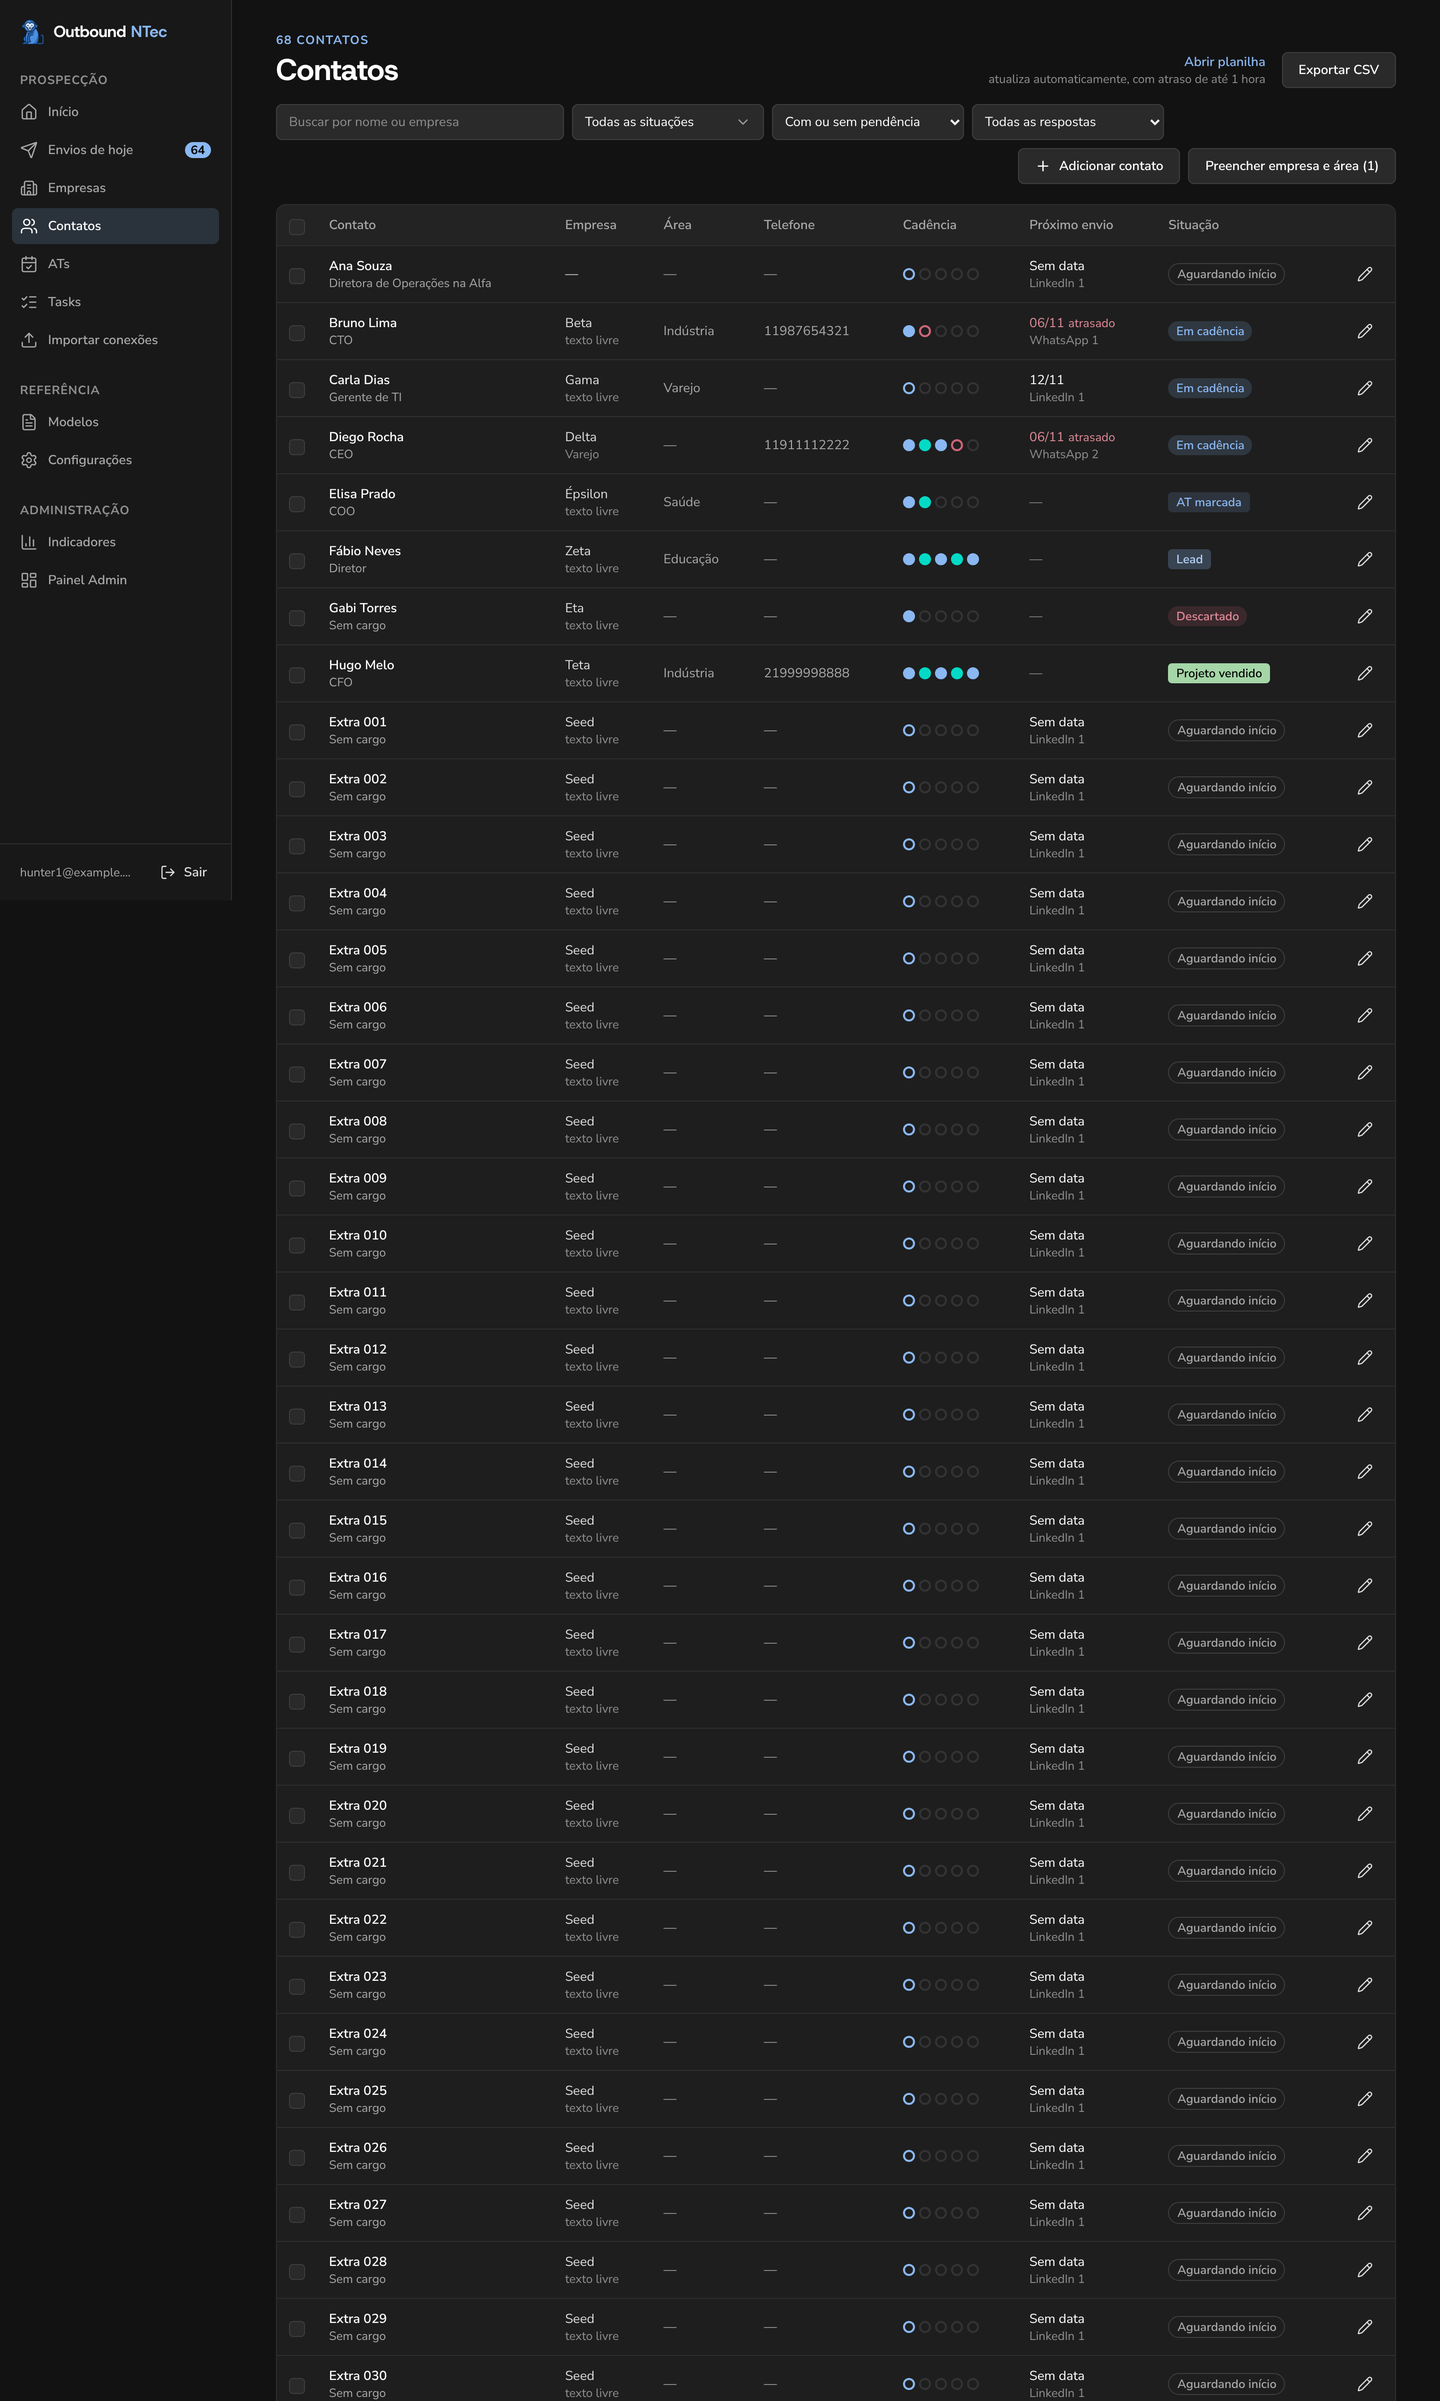
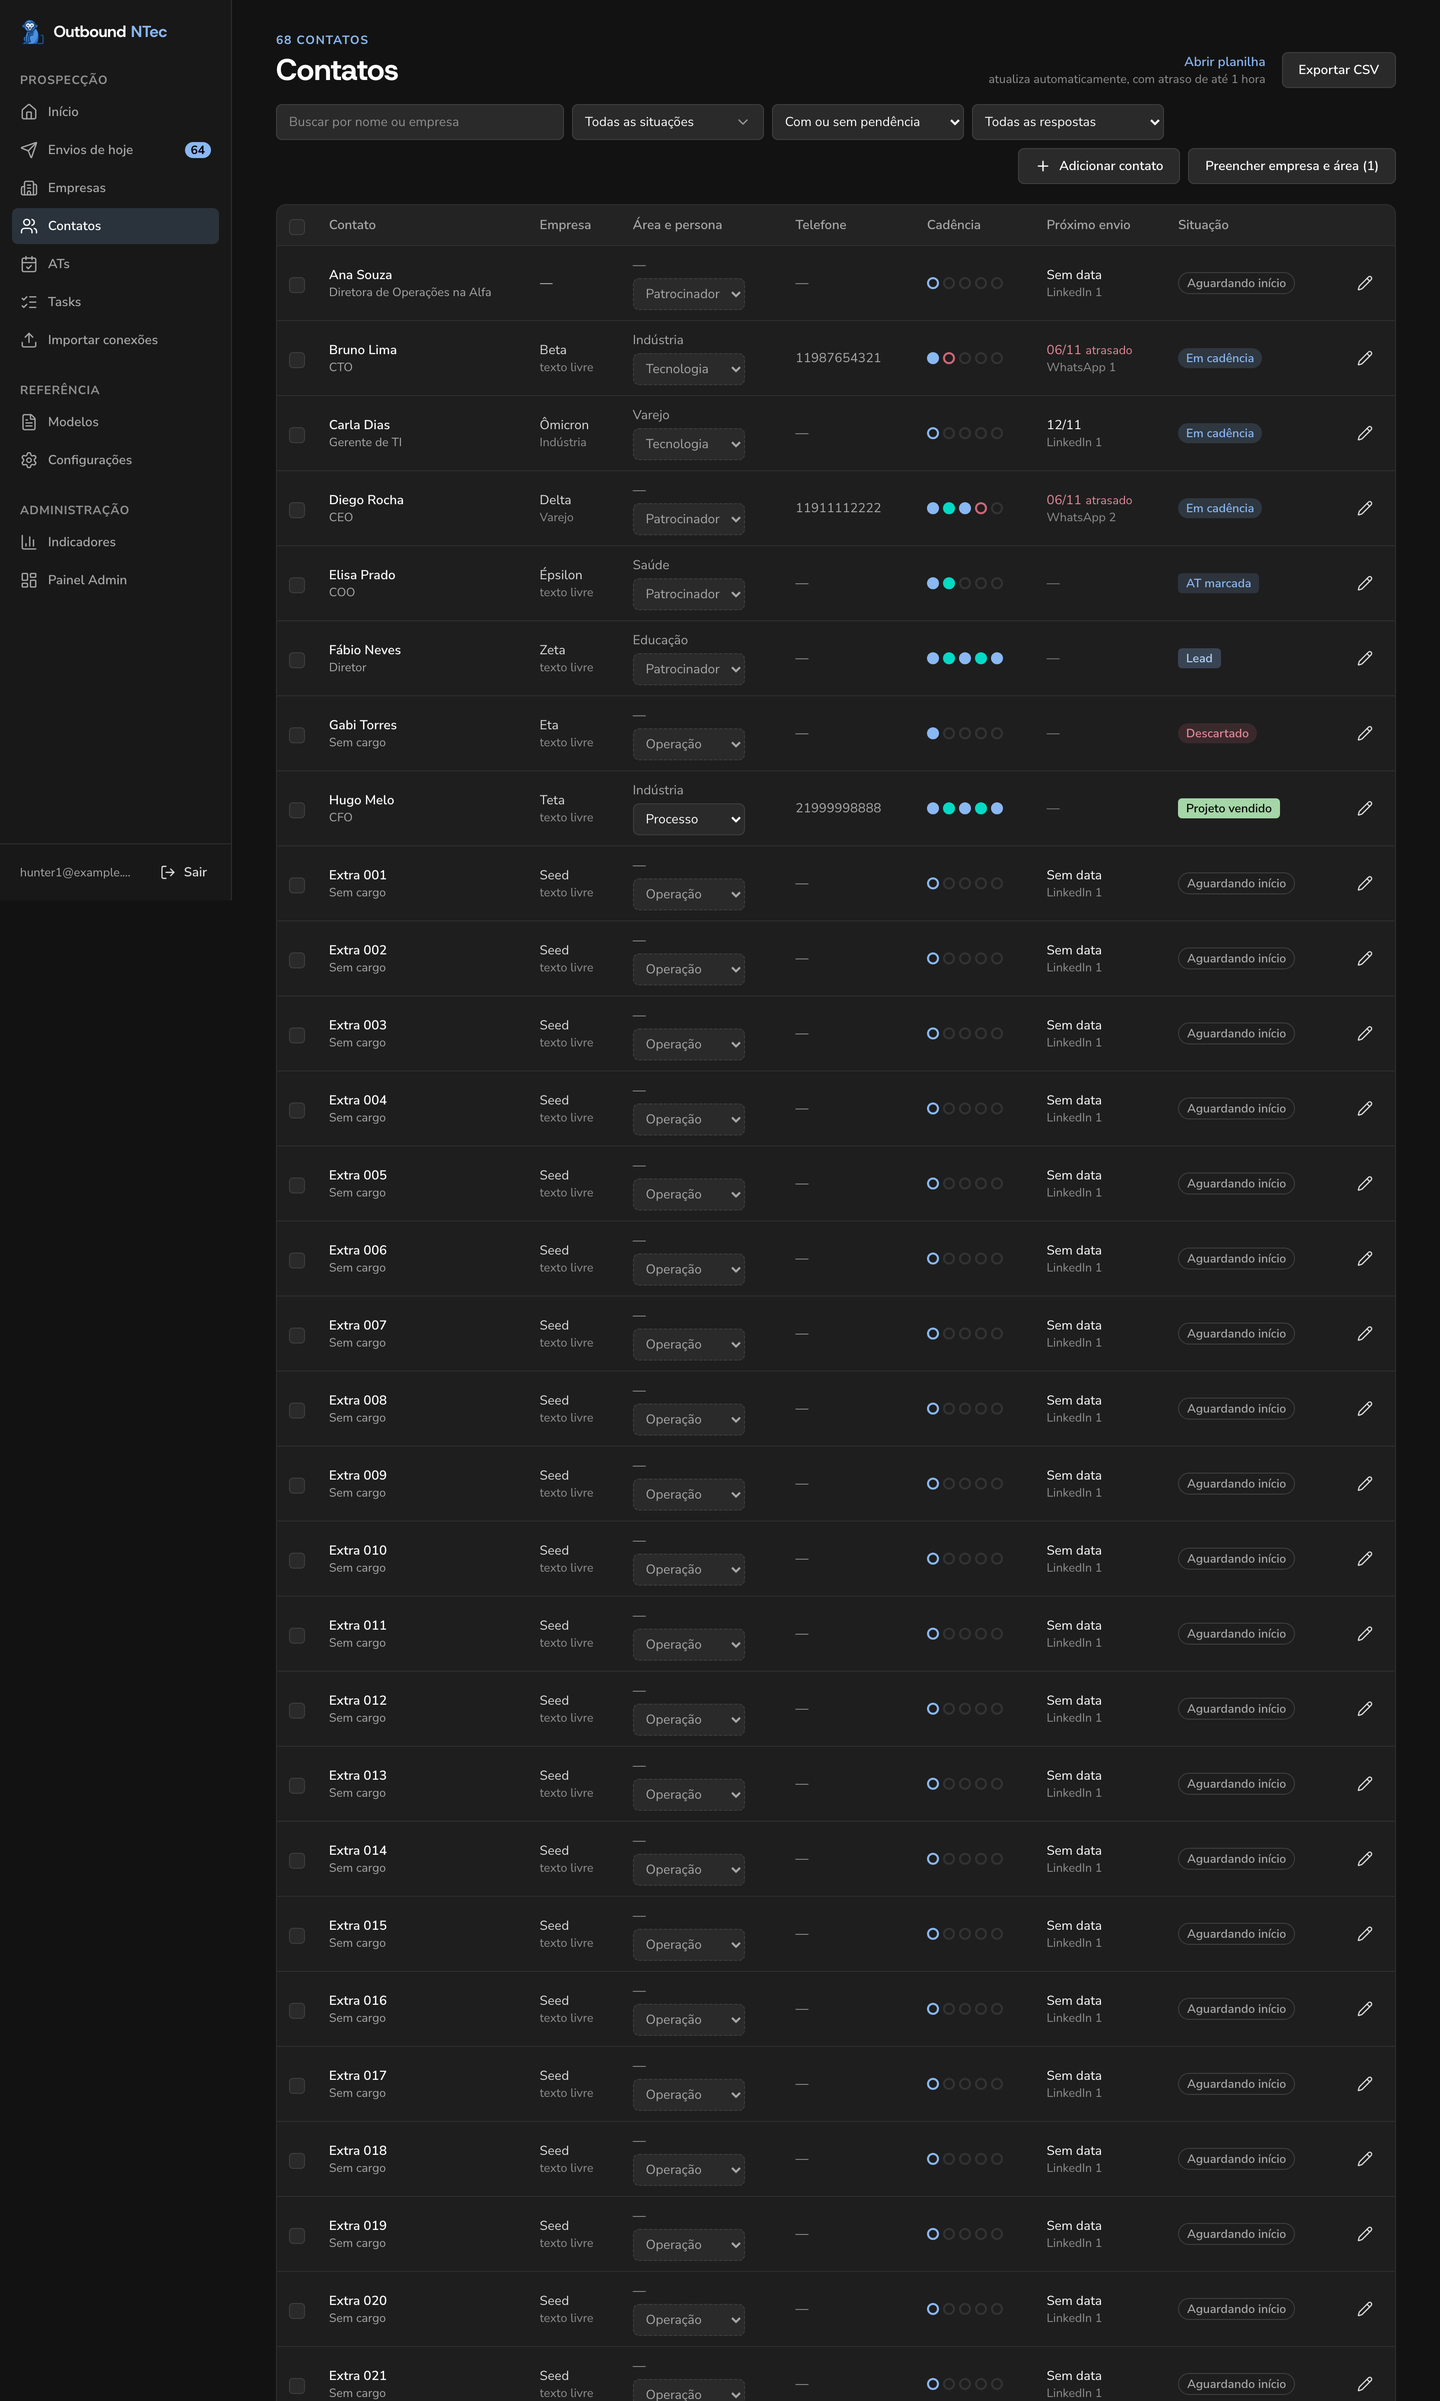
feat(contatos): mostra e troca a persona do contato
A tabela de Contatos mostra a persona embaixo da área, na coluna "Área e
persona", com um seletor compacto: a sugerida pelo cargo aparece em borda
tracejada e escolher qualquer persona grava e confirma. A edição do
contato ganha o campo Persona. A tabela continua sem rolagem em 1280 px.

diff --git a/e2e/contatos.spec.ts b/e2e/contatos.spec.ts
@@ -218,4 +218,69 @@ test.describe("Contatos", () => {
       resposta_etapa: 0,
     });
   });
+
+  test("a linha mostra a persona sugerida pelo cargo, com o motivo no title", async ({ page }) => {
+    await page.goto("/contatos");
+    const diego = page.locator("main tbody tr", { hasText: "Diego Rocha" });
+    const persona = diego.getByRole("combobox", { name: "Persona (sugerida)" });
+    await expect(persona.locator("option:checked")).toHaveText("Patrocinador Executivo");
+    await expect(persona).toHaveAttribute(
+      "title",
+      "Sugerida pelo cargo: Patrocinador Executivo. Escolha para confirmar.",
+    );
+    await expect(persona).toHaveClass(/border-dashed/);
+    await expect(persona.locator("option", { hasText: "Owner d" })).toHaveCount(0);
+    // A sugestão não se repete na lista aberta: a opção "" fica escondida.
+    await expect(persona.locator('option[value=""]')).toHaveAttribute("hidden", "");
+  });
+
+  test("trocar a persona na linha grava a escolhida", async ({ page }) => {
+    await page.goto("/contatos");
+    const diego = page.locator("main tbody tr", { hasText: "Diego Rocha" });
+    await diego
+      .getByRole("combobox", { name: "Persona (sugerida)" })
+      .selectOption({ label: "Tecnologia" });
+    await expect.poll(async () => (await mutations()).length).toBe(1);
+    expect(JSON.parse((await mutations())[0]!.body)).toEqual({ persona: "owner_tecnologia" });
+    expect((await mutations())[0]!.query).toMatch(/id=eq\./);
+  });
+
+  test("escolher a persona sugerida na linha dispara a gravação", async ({ page }) => {
+    await page.goto("/contatos");
+    const diego = page.locator("main tbody tr", { hasText: "Diego Rocha" });
+    // A opção "sugerida" tem valor vazio e a persona real é outra opção, com o mesmo rótulo.
+    await diego
+      .getByRole("combobox", { name: "Persona (sugerida)" })
+      .selectOption("patrocinador_executivo");
+    await expect.poll(async () => (await mutations()).length).toBe(1);
+    expect(JSON.parse((await mutations())[0]!.body)).toEqual({
+      persona: "patrocinador_executivo",
+    });
+  });
+
+  test("contato com persona gravada não aparece como sugerido", async ({ page }) => {
+    await page.goto("/contatos");
+    const hugo = page.locator("main tbody tr", { hasText: "Hugo Melo" });
+    const persona = hugo.getByRole("combobox", { name: "Persona", exact: true });
+    await expect(persona).toHaveValue("owner_processo");
+    await expect(persona.locator("option:checked")).toHaveText("Processo");
+    await expect(persona).toHaveAttribute("title", "Owner do Processo");
+    await expect(persona).not.toHaveClass(/border-dashed/);
+    await expect(hugo.getByRole("combobox", { name: "Persona (sugerida)" })).toHaveCount(0);
+  });
+
+  test("a edição do contato mostra o selo 'sugerida' e grava a persona", async ({ page }) => {
+    await page.goto("/contatos");
+    await page
+      .locator("main tbody tr", { hasText: "Diego Rocha" })
+      .getByRole("button", { name: /^Editar / })
+      .click();
+    const dialog = page.getByRole("dialog");
+    await expect(dialog.getByText("sugerida", { exact: true })).toBeVisible();
+    const persona = dialog.getByRole("combobox", { name: "Persona", exact: true });
+    await expect(persona.locator("option:checked")).toHaveText("Sugerida: Patrocinador Executivo");
+    await persona.selectOption({ label: "Owner da Operação" });
+    await expect.poll(async () => (await mutations()).length).toBe(1);
+    expect(JSON.parse((await mutations())[0]!.body)).toEqual({ persona: "owner_operacao" });
+  });
 });

diff --git a/src/components/PersonaSelect.tsx b/src/components/PersonaSelect.tsx
@@ -5,14 +5,17 @@ import { cn } from "@/lib/utils";
 /**
  * Seletor da persona do contato. Com `value` nulo a persona ainda é a sugerida pelo cargo: a
  * primeira opção mostra "Sugerida: <rótulo>" e um selo avisa. Escolher qualquer persona, inclusive
- * a sugerida, grava e confirma (`onChange`). `compact` serve à tabela de Contatos (`h-8`).
+ * a sugerida, grava e confirma (`onChange`). `compact` serve à tabela de Contatos (`h-8`); `noBadge`
+ * troca o selo pela borda tracejada, para caber em 1280 px.
  */
 export function PersonaSelect({
   value,
   suggested,
   onChange,
   compact = false,
+  noBadge = false,
   className,
+  wrapperClassName,
 }: {
   /** Persona gravada no contato (`null` = ainda sugerida). */
   value: Persona | null;
@@ -20,27 +23,51 @@ export function PersonaSelect({
   suggested: Persona;
   onChange: (persona: Persona) => void;
   compact?: boolean;
+  /** Tabela de Contatos: sem selo nem prefixo; a sugestão vai em borda tracejada, aria-label e title. */
+  noBadge?: boolean;
   className?: string;
+  /** Classes do contêiner (ex.: `flex w-full` para o select ocupar a largura do campo). */
+  wrapperClassName?: string;
 }) {
+  // Em Contatos (`noBadge`) os rótulos perdem o "Owner do/da " para caber na coluna.
+  const short = (label: string) => (noBadge ? label.replace(/^Owner d[oa] /, "") : label);
+  const hint = noBadge && !value;
   return (
-    <span className="inline-flex items-center gap-1.5">
+    <span className={cn("inline-flex items-center gap-1.5", wrapperClassName)}>
       <NativeSelect
-        aria-label="Persona"
-        className={cn(compact ? "h-8" : "h-9", className)}
+        aria-label={hint ? "Persona (sugerida)" : "Persona"}
+        title={
+          hint
+            ? `Sugerida pelo cargo: ${PERSONA_LABEL[suggested]}. Escolha para confirmar.`
+            : noBadge && value
+              ? PERSONA_LABEL[value]
+              : undefined
+        }
+        className={cn(
+          compact ? "h-8" : "h-9",
+          hint && "border-dashed text-muted-foreground",
+          className,
+        )}
         value={value ?? ""}
         onChange={(e) => {
           // A opção "Sugerida" (valor "") já vem selecionada, então o evento só traz personas reais.
           onChange(e.target.value as Persona);
         }}
       >
-        {!value && <option value="">Sugerida: {PERSONA_LABEL[suggested]}</option>}
+        {!value && (
+          // Em Contatos o rótulo da sugestão repete o da opção real: escondida da lista aberta,
+          // ela só aparece no select fechado.
+          <option value="" hidden={noBadge}>
+            {noBadge ? short(PERSONA_LABEL[suggested]) : `Sugerida: ${PERSONA_LABEL[suggested]}`}
+          </option>
+        )}
         {PERSONAS.map((p) => (
           <option key={p.key} value={p.key}>
-            {p.label}
+            {short(p.label)}
           </option>
         ))}
       </NativeSelect>
-      {!value && (
+      {!value && !noBadge && (
         <span className="rounded-sm bg-warning-soft px-2 py-0.5 text-caption font-semibold text-warning-text">
           sugerida
         </span>

diff --git a/src/components/contatos/ContactRow.tsx b/src/components/contatos/ContactRow.tsx
@@ -1,11 +1,13 @@
 import { Pencil } from "lucide-react";
 import { FunnelBadge } from "@/components/Funnel";
+import { PersonaSelect } from "@/components/PersonaSelect";
 import { StatusBadge } from "@/components/StatusBadge";
 import { Button } from "@/components/ui/button";
 import { Checkbox } from "@/components/ui/checkbox";
 import { TableCell, TableRow } from "@/components/ui/table";
 import { STEPS, computedStatus, formatBR, funnelIndex, type Contact } from "@/lib/cadencia";
 import type { NextSend, StepMark } from "@/lib/contatos";
+import { contactPersona, type Persona } from "@/lib/personas";
 import { cn } from "@/lib/utils";
 
 /** "2026-11-06" → "06/11". */
@@ -31,6 +33,7 @@ export function ContactRow({
   selected,
   onToggle,
   onEdit,
+  onPersona,
 }: {
   contact: Contact;
   /** Setor (ramo) da empresa cadastrada, quando o contato está vinculado a uma. */
@@ -40,7 +43,10 @@ export function ContactRow({
   selected: boolean;
   onToggle: () => void;
   onEdit: () => void;
+  /** Grava a persona escolhida (confirma a sugerida). */
+  onPersona: (persona: Persona) => void;
 }) {
+  const { persona, suggested } = contactPersona(c);
   return (
     <TableRow data-state={selected ? "selected" : undefined}>
       <TableCell>
@@ -50,7 +56,7 @@ export function ContactRow({
           aria-label={`Selecionar ${c.name}`}
         />
       </TableCell>
-      <TableCell className="max-w-56">
+      <TableCell className="max-w-44">
         <p className="truncate font-semibold text-heading">{c.name}</p>
         <p className="truncate text-caption text-muted-foreground" title={c.headline}>
           {c.job_title.trim() || c.headline || "Sem cargo"}
@@ -64,7 +70,17 @@ export function ContactRow({
           </p>
         )}
       </TableCell>
-      <TableCell className="whitespace-nowrap text-muted-foreground">{c.sector || "—"}</TableCell>
+      <TableCell>
+        <p className="whitespace-nowrap text-muted-foreground">{c.sector || "—"}</p>
+        <PersonaSelect
+          compact
+          noBadge
+          value={suggested ? null : persona}
+          suggested={persona}
+          onChange={onPersona}
+          className="mt-1 w-28"
+        />
+      </TableCell>
       <TableCell className="whitespace-nowrap tabular-nums text-muted-foreground">
         {c.phone || "—"}
       </TableCell>

diff --git a/src/components/contatos/ContactEditDialog.tsx b/src/components/contatos/ContactEditDialog.tsx
@@ -3,6 +3,7 @@ import { CompanyGenderToggle } from "@/components/CompanyGender";
 import { CompanySelect } from "@/components/CompanySelect";
 import { FunnelBadge, FunnelControl } from "@/components/Funnel";
 import { InlineInput } from "@/components/InlineInput";
+import { PersonaSelect } from "@/components/PersonaSelect";
 import { ResponseKindSelect } from "@/components/RespostaOrigem";
 import { SectorSelect } from "@/components/SectorSelect";
 import { StatusBadge } from "@/components/StatusBadge";
@@ -39,6 +40,7 @@ import {
 } from "@/lib/cadencia";
 import { statusOptions } from "@/lib/contatos";
 import type { Company } from "@/lib/empresas";
+import { contactPersona } from "@/lib/personas";
 import { cn } from "@/lib/utils";
 
 /**
@@ -66,6 +68,7 @@ export function ContactEditDialog({
   const planned = plannedDates(c, offsets, holidays);
   const status = computedStatus(c);
   const [step1] = STEPS;
+  const { persona, suggested } = contactPersona(c);
 
   return (
     <Dialog open onOpenChange={(o) => !o && onClose()}>
@@ -99,6 +102,15 @@ export function ContactEditDialog({
               value={c.sector}
               onChange={(v) => onPatch({ sector: v })}
               className="w-full"
+            />
+          </Field>
+          <Field label="Persona">
+            <PersonaSelect
+              value={suggested ? null : persona}
+              suggested={persona}
+              onChange={(p) => onPatch({ persona: p })}
+              className="w-full"
+              wrapperClassName="flex w-full"
             />
           </Field>
           <Field label="Telefone/WhatsApp" htmlFor="ed-tel">

diff --git a/src/components/contatos/ContactsTable.tsx b/src/components/contatos/ContactsTable.tsx
@@ -63,7 +63,7 @@ export function ContactsTable({
             </TableHead>
             <TableHead>Contato</TableHead>
             <TableHead>Empresa</TableHead>
-            <TableHead>Área</TableHead>
+            <TableHead>Área e persona</TableHead>
             <TableHead>Telefone</TableHead>
             <TableHead>Cadência</TableHead>
             <TableHead>Próximo envio</TableHead>
@@ -99,6 +99,7 @@ export function ContactsTable({
                 marks={cadenceMarks(c, next)}
                 selected={selection.has(c.id)}
                 onToggle={() => selection.toggle(c.id)}
+                onPersona={(persona) => onPatch(c, { persona })}
                 onEdit={() => setEditingId(c.id)}
               />
             );

diff --git a/docs/redesign/DESIGN.md b/docs/redesign/DESIGN.md
@@ -152,7 +152,7 @@ Todos sobre shadcn/ui (Radix). Ícones: lucide, traço 1.75, 16–18 px, `curren
   3. "Quem precisa de ajuda" e "Metas da semana" em largura total, um abaixo do outro (a tabela de Metas não rola na horizontal em 1280 px). Alertas: 5 mais urgentes, "Ver todos" abre o resto, selo de severidade de largura fixa, nome do hunter é link para a Execução dele; a regra das metas vai em nota no rodapé de Metas.
   4. "Detalhamento" em abas internas: Execução por hunter, Envios por dia, Ritmo, Funil, Origem, Conversão, Tendência, Abastecimento.
 - **Contatos**: 9 colunas.
-  - Colunas: ☐, Contato (nome + cargo), Empresa (+ "texto livre" ou setor), Área, Telefone, Cadência, Próximo envio, Situação, menu de ações.
+  - Colunas: ☐, Contato (nome + cargo), Empresa (+ "texto livre" ou setor), Área e persona (a área em texto e, embaixo, o `PersonaSelect` compacto; sem selo, rótulo curto sem "Owner do/da"; a sugestão aparece com borda `border-dashed` e texto discreto até o hunter confirmar), Telefone, Cadência, Próximo envio, Situação, menu de ações.
   - Cadência: 5 marcadores, um por etapa de `STEPS`. Enviada = preenchida na cor do canal; próxima = contorno; atrasada = contorno `destructive`.
   - Edição detalhada no menu da linha, não em inputs na tabela inteira.
 - **ATs** (`/ats`): faixa de 5 números do filtro (ATs, Realizadas, No-show em alerta quando houver,
